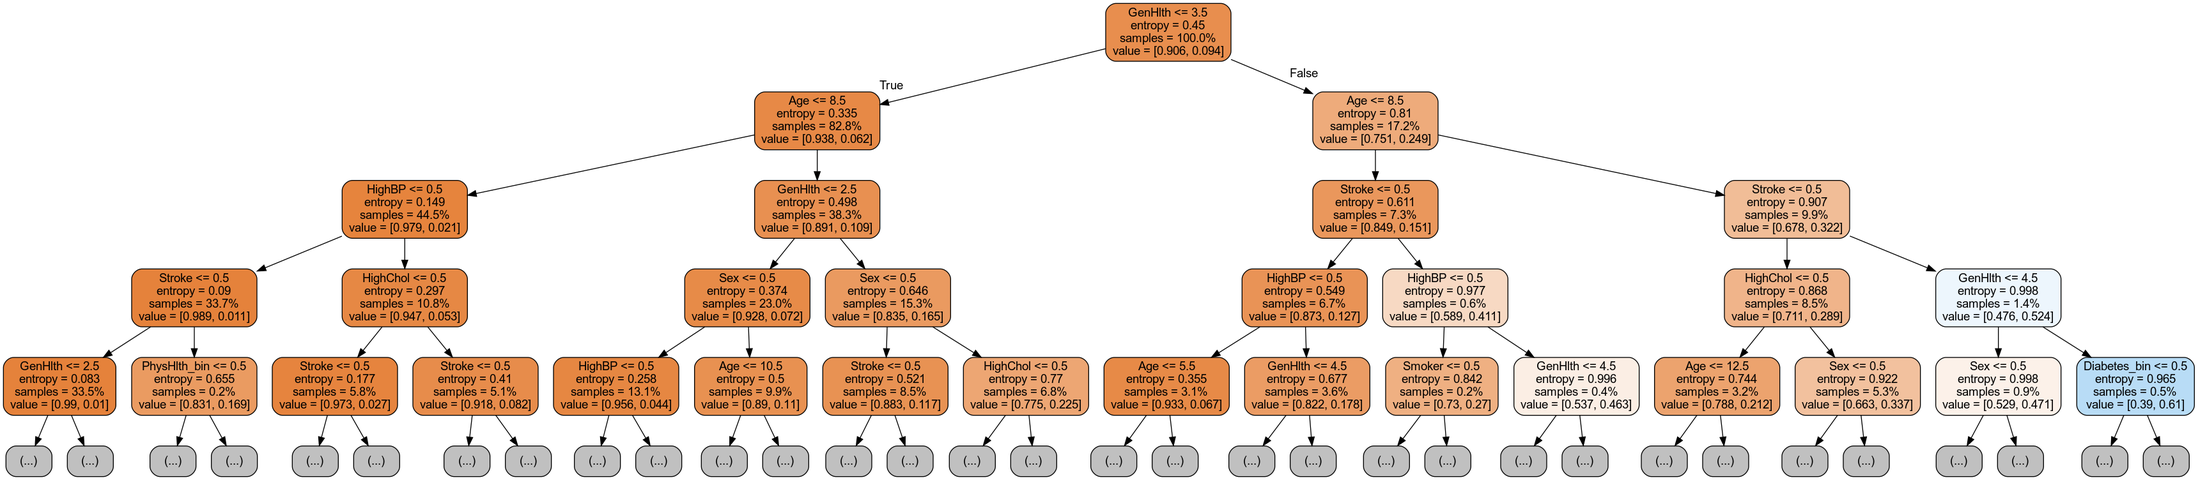
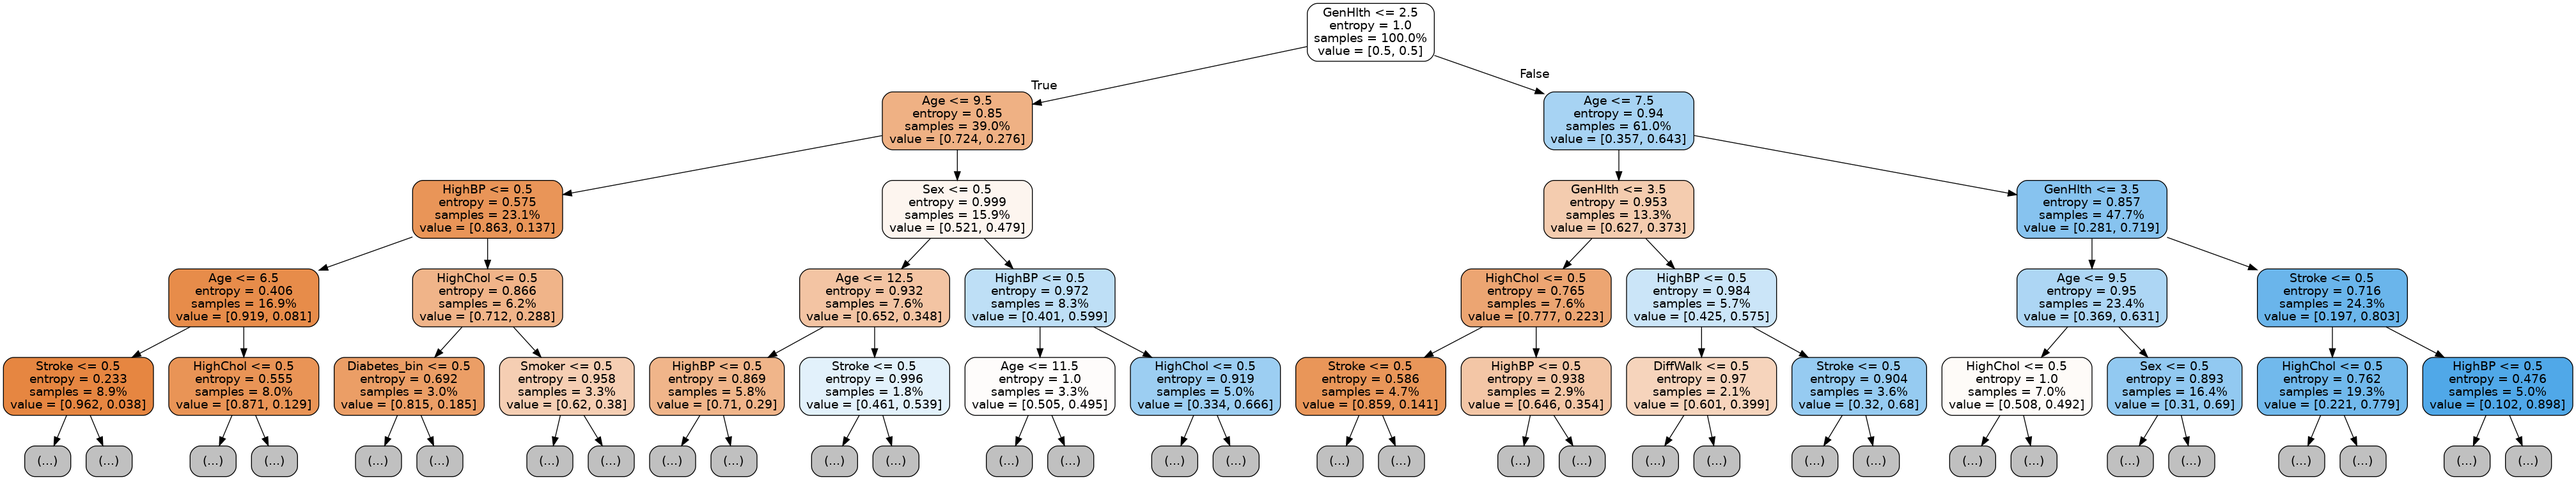
improved(?) decision tree

diff --git a/code/tree.py b/code/tree.py
@@ -7,6 +7,34 @@ from sklearn import metrics
 
 data = pd.read_csv("datasets/dataset.csv", index_col=0)
 
+"""
+Balancing the dataset reduces the accuracy for increases in precision and recall (worth?)
+
+Unbalanced:
+              precision    recall  f1-score   support
+
+         0.0       0.91      0.99      0.95     45968
+         1.0       0.57      0.09      0.15      4768
+
+    accuracy                           0.91     50736
+   macro avg       0.74      0.54      0.55     50736
+weighted avg       0.88      0.91      0.88     50736
+
+Balanced:
+              precision    recall  f1-score   support
+
+         0.0       0.79      0.72      0.75      4818
+         1.0       0.74      0.80      0.77      4740
+
+    accuracy                           0.76      9558
+   macro avg       0.76      0.76      0.76      9558
+weighted avg       0.76      0.76      0.76      9558
+"""
+pos_sample = data[data["HeartDiseaseorAttack"] == 1]
+neg_sample = data[data["HeartDiseaseorAttack"] == 0].sample(n=len(pos_sample))
+data = pd.concat([pos_sample, neg_sample], ignore_index=True)
+data = data.sample(frac=1)
+
 target = data["HeartDiseaseorAttack"]
 features = data.drop("HeartDiseaseorAttack", axis=1)
 
@@ -14,7 +42,9 @@ features_train, features_test, target_train, target_test = train_test_split(
     features, target, test_size=0.2, random_state=42
 )
 
-classifier = tree.DecisionTreeClassifier(max_depth=10, random_state=42, criterion='entropy')
+classifier = tree.DecisionTreeClassifier(
+    max_depth=9, min_samples_leaf=4, random_state=42, criterion="entropy"
+)
 classifier.fit(features_train, target_train)
 result = classifier.predict(features_test)
 matrix = metrics.confusion_matrix(target_test, result)
@@ -32,7 +62,15 @@ importance = pd.DataFrame(
 importance.sort_values("importance", ascending=False, inplace=True)
 print(importance)
 
-dot_data = tree.export_graphviz(classifier, out_file=None, feature_names=features_train.columns, filled=True, proportion=True, rounded=True, max_depth=4)
+dot_data = tree.export_graphviz(
+    classifier,
+    out_file=None,
+    feature_names=features_train.columns,
+    filled=True,
+    proportion=True,
+    rounded=True,
+    max_depth=4,
+)
 graph = graphviz.Source(dot_data)
-graph.format = 'png'
+graph.format = "png"
 graph.render("tree")
